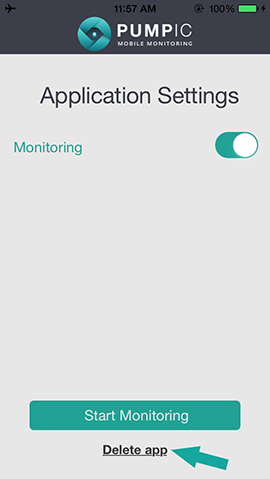
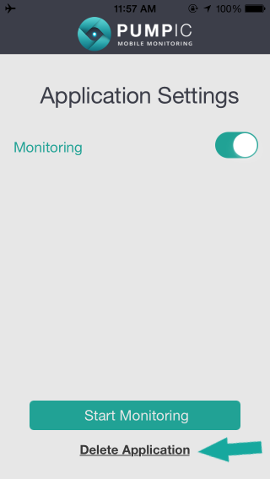
SD-2406 replace guides with proper screenshots

diff --git a/app/templates/content/en-US/instructions/uninstall-pumpic-ios.html b/app/templates/content/en-US/instructions/uninstall-pumpic-ios.html
@@ -31,7 +31,7 @@
         cursor: pointer;
         border: none;
     }
-    .nav-buttons li.active > a, 
+    .nav-buttons li.active > a,
     .nav-buttons li > a:hover {
         background: #16a89e !important;
         color: #fff !important;
@@ -41,7 +41,7 @@
     }
 
     @media only screen and (max-width: 480px) {
-        .nav-buttons { 
+        .nav-buttons {
             text-align: center;
         }
 
@@ -50,8 +50,8 @@
         }
     }
 
-    @media (max-width: 642px) { 
-        .nav-buttons { 
+    @media (max-width: 642px) {
+        .nav-buttons {
             text-align: center;
         }
 
@@ -97,7 +97,7 @@
             <p><img class="img-thumbnail" src="{$di.config.staticDomain}/images/instructions/uninstall/ios/1_2.png"></p>
         </li>
         <li>
-            <p>Tap "Delete app" at the bottom of the screen; </p>
+            <p>Tap "Delete application" at the bottom of the screen; </p>
 
             <p><img class="img-thumbnail" src="{$di.config.staticDomain}/images/instructions/uninstall/ios/1_3.png"></p>
         </li>
